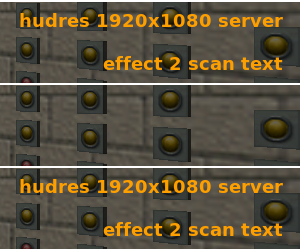
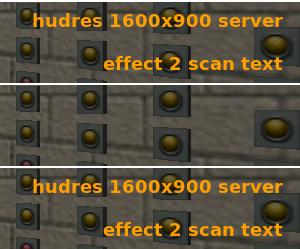
docs(hud): bring the foundation page in line with the integrated HUD
The old users of the HUD channels are gone, ClearText is described, and the proof evidence comes from the run on the
integrated branch, where all 55 checks passed and the crops show the CS elements next to the native ones.

diff --git a/docs/hud-architecture.md b/docs/hud-architecture.md
@@ -9,7 +9,8 @@ Research that this design uses:
 - `docs/research/sven-client-hud.md`: client channels, byte layouts, positions, lifetime of custom elements.
 - `docs/research/sven-client-hudtext.md`: `TE_TEXTMESSAGE`, text slots, text positions and font.
 - `docs/research/cs16-hud-spec.md`: the CS 1.6 HUD and its proposed Sven mapping (section 5).
-- `docs/hud-sprites.md` on branch `feat/hud-sprites`: the generated sprites in `sprites/cs16/hud/`.
+- `docs/hud-sprites.md`: the generated sprites in `sprites/cs16/hud/`.
+- `docs/hud.md`: the elements that use this foundation, and their comparison with CS 1.6.
 
 ## Files
 
@@ -170,20 +171,12 @@ or avoid it. Two ways to avoid it: merge the headshot icon into the weapon icon 
 
 ### This repository
 
-On `main` these users take channels that the map above gives to other elements:
-
-| User                                                      | API channel    | Client channel or slot | Element of the map                         |
-| --------------------------------------------------------- | -------------- | ---------------------- | ------------------------------------------ |
-| money number display (`scripts/cs16/BuyMenu.as:100`)      | plugin 0       | 16                     | crosshair, west line                       |
-| C4 status icon (`scripts/cs16/misc/weapon_c4.as:130`)     | plugin 4       | 20                     | health                                     |
-| kill feed weapon icons (`scripts/cs16/killfeed.as:291`)   | plugin 5–8     | 21–24                  | armour, armour full, clip, reserve high    |
-| kill feed headshot icons (`scripts/cs16/killfeed.as:308`) | plugin 9–12    | 25–28                  | reserve low, ammo icon, money high and low |
-| kill feed names (`scripts/cs16/killfeed.as:324`, `341`)   | text 1–4, 9–12 | engine slots 0–3       | victim names rows 1–4                      |
-
-- The status element must remove the money number display of `BuyMenu.as` when it draws the money.
-- The kill feed element replaces the kill feed of `killfeed.as`.
-- The C4 status icon moves to `STATUS_ICON` (9).
-- Other plugins on the same server that use the stock API also draw on client channels 16–31.
+Before the HUD elements, older code of this repository drew on channels that this map gives to other elements: the money
+number display of `BuyMenu.as` (client channel 16), the C4 sprite of `weapon_c4.as` (20) and the old kill feed (21–28
+and text slots 0–3). The integrated HUD (`docs/hud.md`) removed all of them: the money element replaces the number
+display, the status icon (9) replaces the C4 sprite, and the new kill feed uses its own channels and slots. No other
+code of this repository sends custom elements or HUD texts. Other plugins on the same server that use the stock API
+still draw on client channels 16–31 and text slots 0–3.
 
 ## Raw senders
 
@@ -235,10 +228,11 @@ safe. The server also drops any `TE_TEXTMESSAGE` above its 512-byte message buff
 bytes, which fits the line buffer and always sends. An element that needs more text uses more than one slot.
 
 The senders record each client channel and text slot that they used for each player, and the last position of each text.
-`cs16_hud 0` hides these channels and sends an empty text with no hold to these slots. The empty text goes to the
-recorded position, because the client clears every other text at the position of a new text (`sven-client-hudtext.md`
-1.4); an empty text at the default centred position would clear a map or plugin text that sits there. Thus turning the
-CS HUD off does not touch the elements or texts of maps or other plugins.
+`ClearText( player, slot )` empties one slot that the plugin drew: it sends an empty text with no hold to the recorded
+position, because the client clears every other text at the position of a new text (`sven-client-hudtext.md` 1.4); an
+empty text at the default position would clear a map or plugin text that sits there. `cs16_hud 0` (`ClearSent`) hides
+the recorded channels and calls `ClearText` for each recorded slot; the kill feed uses `ClearText` for rows that go
+empty. Thus turning the CS HUD off does not touch the elements or texts of maps or other plugins.
 
 ## Screen size
 
@@ -436,9 +430,9 @@ The scenario writes `report.json` and the crops to `.e2e/proof`. It exits with a
 
 ### Results
 
-Last run: this branch after the merge of `main`, map testcenter, client at 1600×900 on Xvfb (Mesa llvmpipe),
-`hud_bordersize` 16, machine load average 66 from other test clients. All 55 checks passed. In each crop below, the top
-part is with `cs16_hud 1` and the next part is with `cs16_hud 0`.
+Last run: the integrated branch `feat/cs16-hud` with all HUD elements (`docs/hud.md`), map testcenter, client at
+1600×900 on Xvfb (Mesa llvmpipe), `hud_bordersize` 16. All 55 checks passed. In each crop below, the top part is with
+`cs16_hud 1` and the next part is with `cs16_hud 0`.
 
 **(a) Raw sprites at exact pixels.** With `ABSOLUTE` and `NO_BORDER`, x ≥ 0 is the left edge and a negative x puts the
 right edge −x pixels from the screen edge (`sven-client-hud.md` 1.5). Thus the cross rect starts at (100, 200) and the
@@ -468,9 +462,9 @@ texts were still visible, so a hold above 127.99 s works.
 
 ![texts on engine slots 5 and 6](hud-architecture/b-text-slots.png)
 
-**(c) Native parts hidden, weapon menu working.** With `cs16_hud 1` the health, armour, ammo, flashlight and crosshair
-are not drawn, and `m_iHideHUD` is 810. The slot key 2 and fire changed the weapon from `weapon_m4a1` to
-`weapon_csglock18`. The red mark at the top left of the first strip is the money display of `BuyMenu.as`.
+**(c) Native parts hidden, weapon menu working.** With `cs16_hud 1` the native health, armour, ammo, flashlight and
+crosshair are not drawn (the CS elements are), and `m_iHideHUD` is 810. The slot key 2 and fire changed the weapon from
+`weapon_m4a1` to `weapon_csglock18`.
 
 ![native bottom row](hud-architecture/c-native-bottom.png)
 
@@ -518,8 +512,6 @@ The chat on the screen shows only the newest line:
 
 ## Known limits
 
-- The foundation alone hides the native health, armour, ammo, flashlight and crosshair. The CS elements come from other
-  branches. Until they are merged, set `cs16_hud 0` or merge them together with the foundation.
 - Map-group elements conflict with five stock maps (see [Stock Sven maps](#stock-sven-maps)).
 - The server cannot see a video mode change on the client. The player must type `.hudres`.
 - On a LAN server all players share one stored `.hudres` value.
